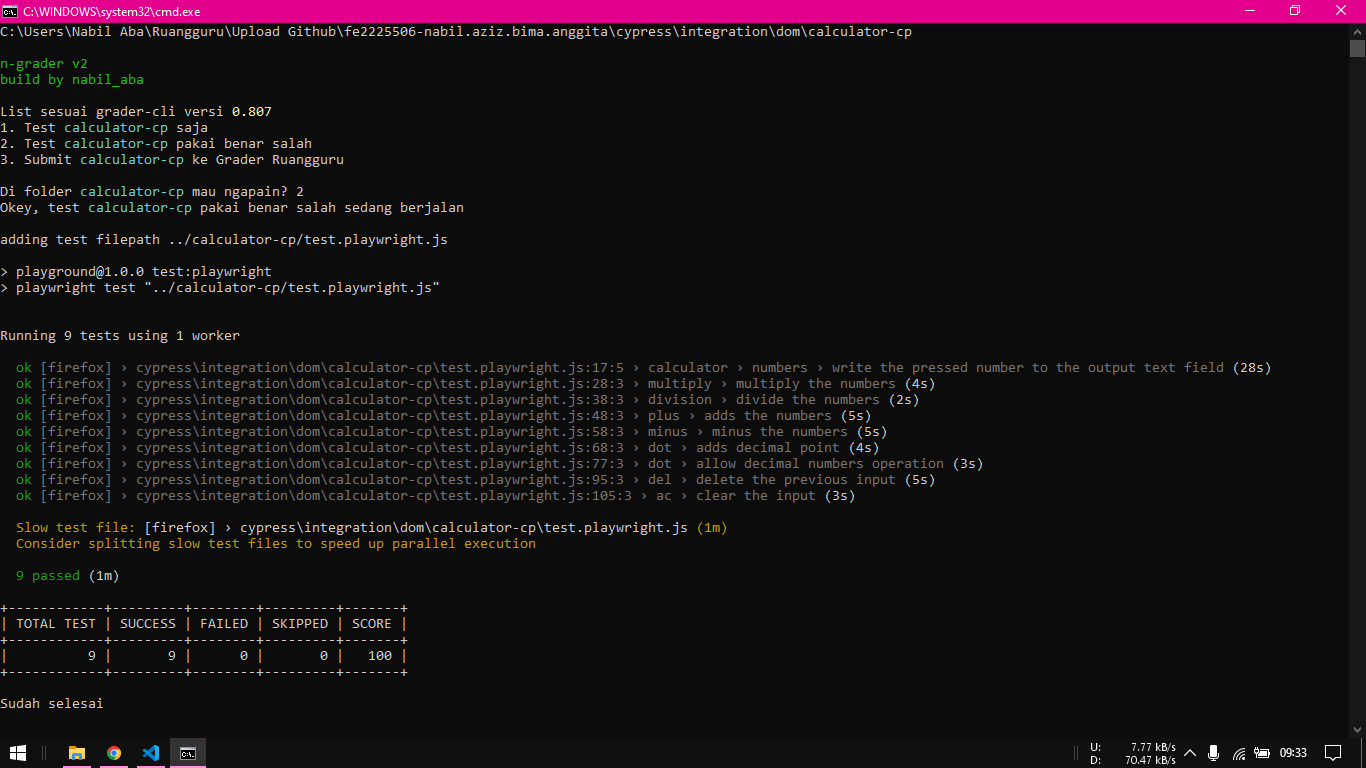
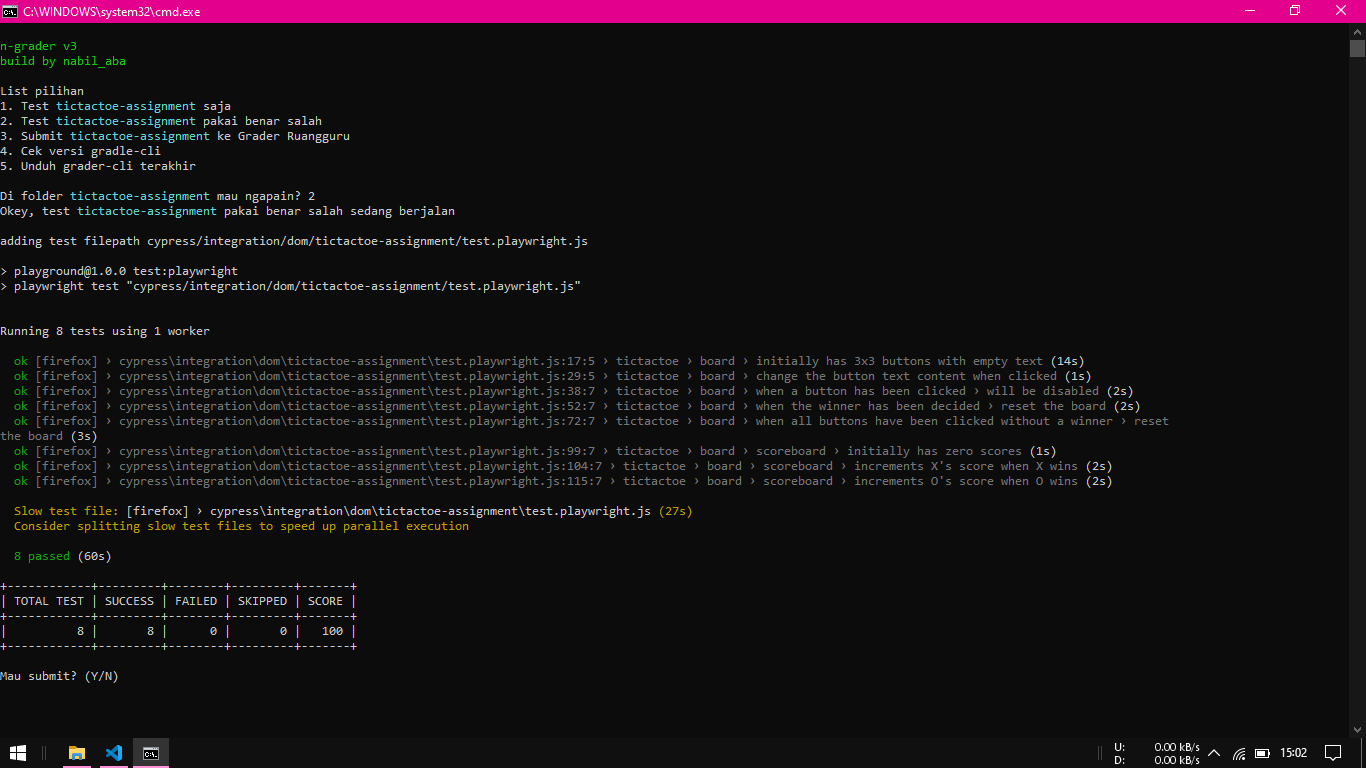
Update Readme & docs

diff --git a/README.md b/README.md
@@ -9,7 +9,7 @@ Pastikan sudah terpasang grader-cli dari ruangguru
 ```
 
 ## Cara Pasang
-1. Download versi terakhir dari [sini](https://github.com/nabilaba/N-Grader/releases/download/v2/N-Grader.zip)
+1. Download versi terakhir dari [sini](https://github.com/nabilaba/N-Grader/releases/download/v3/N-Grader.zip)
 2. Ekstrak dan pindahkan folder N-Grader di C:\Program Files\
 3. Masuk ke Environment Variables
 4. Tambahkan N-Grader ke PATH (C:\Program Files\N-Grader\)
@@ -22,9 +22,14 @@ Pastikan sudah terpasang grader-cli dari ruangguru
 2. Ketik n-grader di address bar file explorer
 ![](docs/CaraPakai2.png)
 3. Pilih sesuai yang tersedia di list yang muncul
-![](docs/CaraPakai3.png)
 
 ## Changelog
+### Version 3
+- Update method for fix grader-cli submit
+- Add option to check version of grader-cli
+- Add option to download latest grader-cli
+- Removing checking version once open n-grader to reduce lag
+
 ### Version 2
 - Added support ansicon
 - More control
